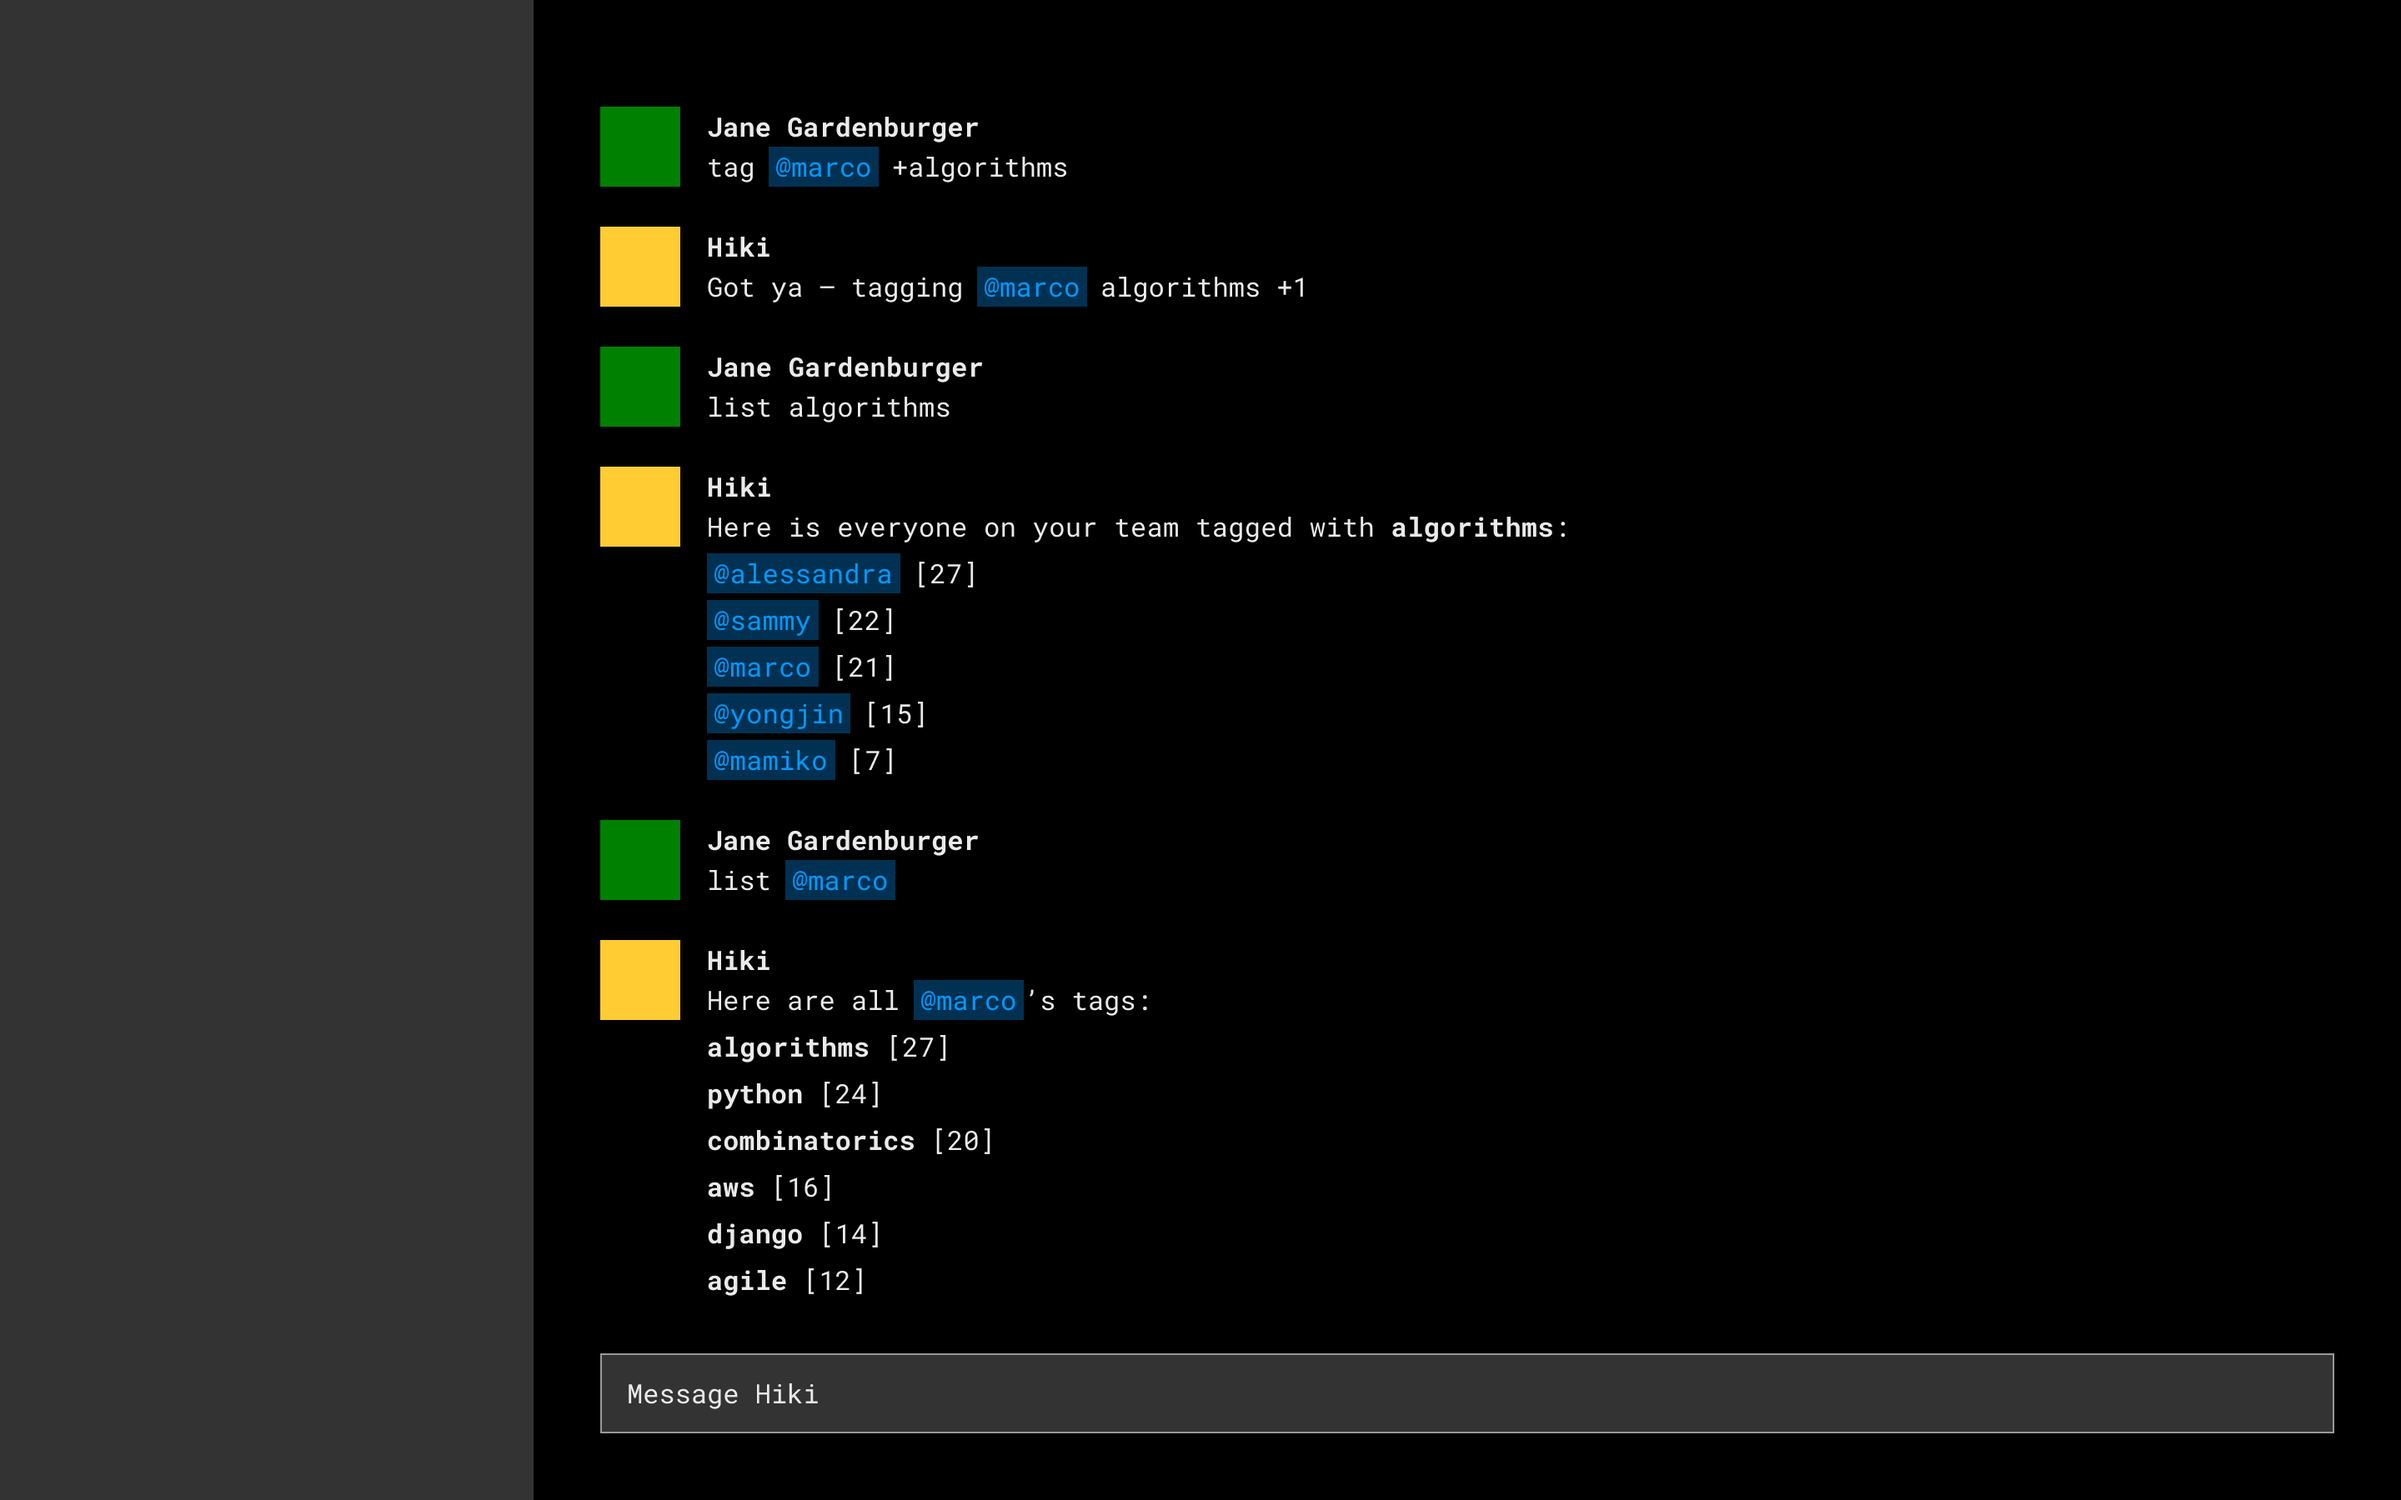
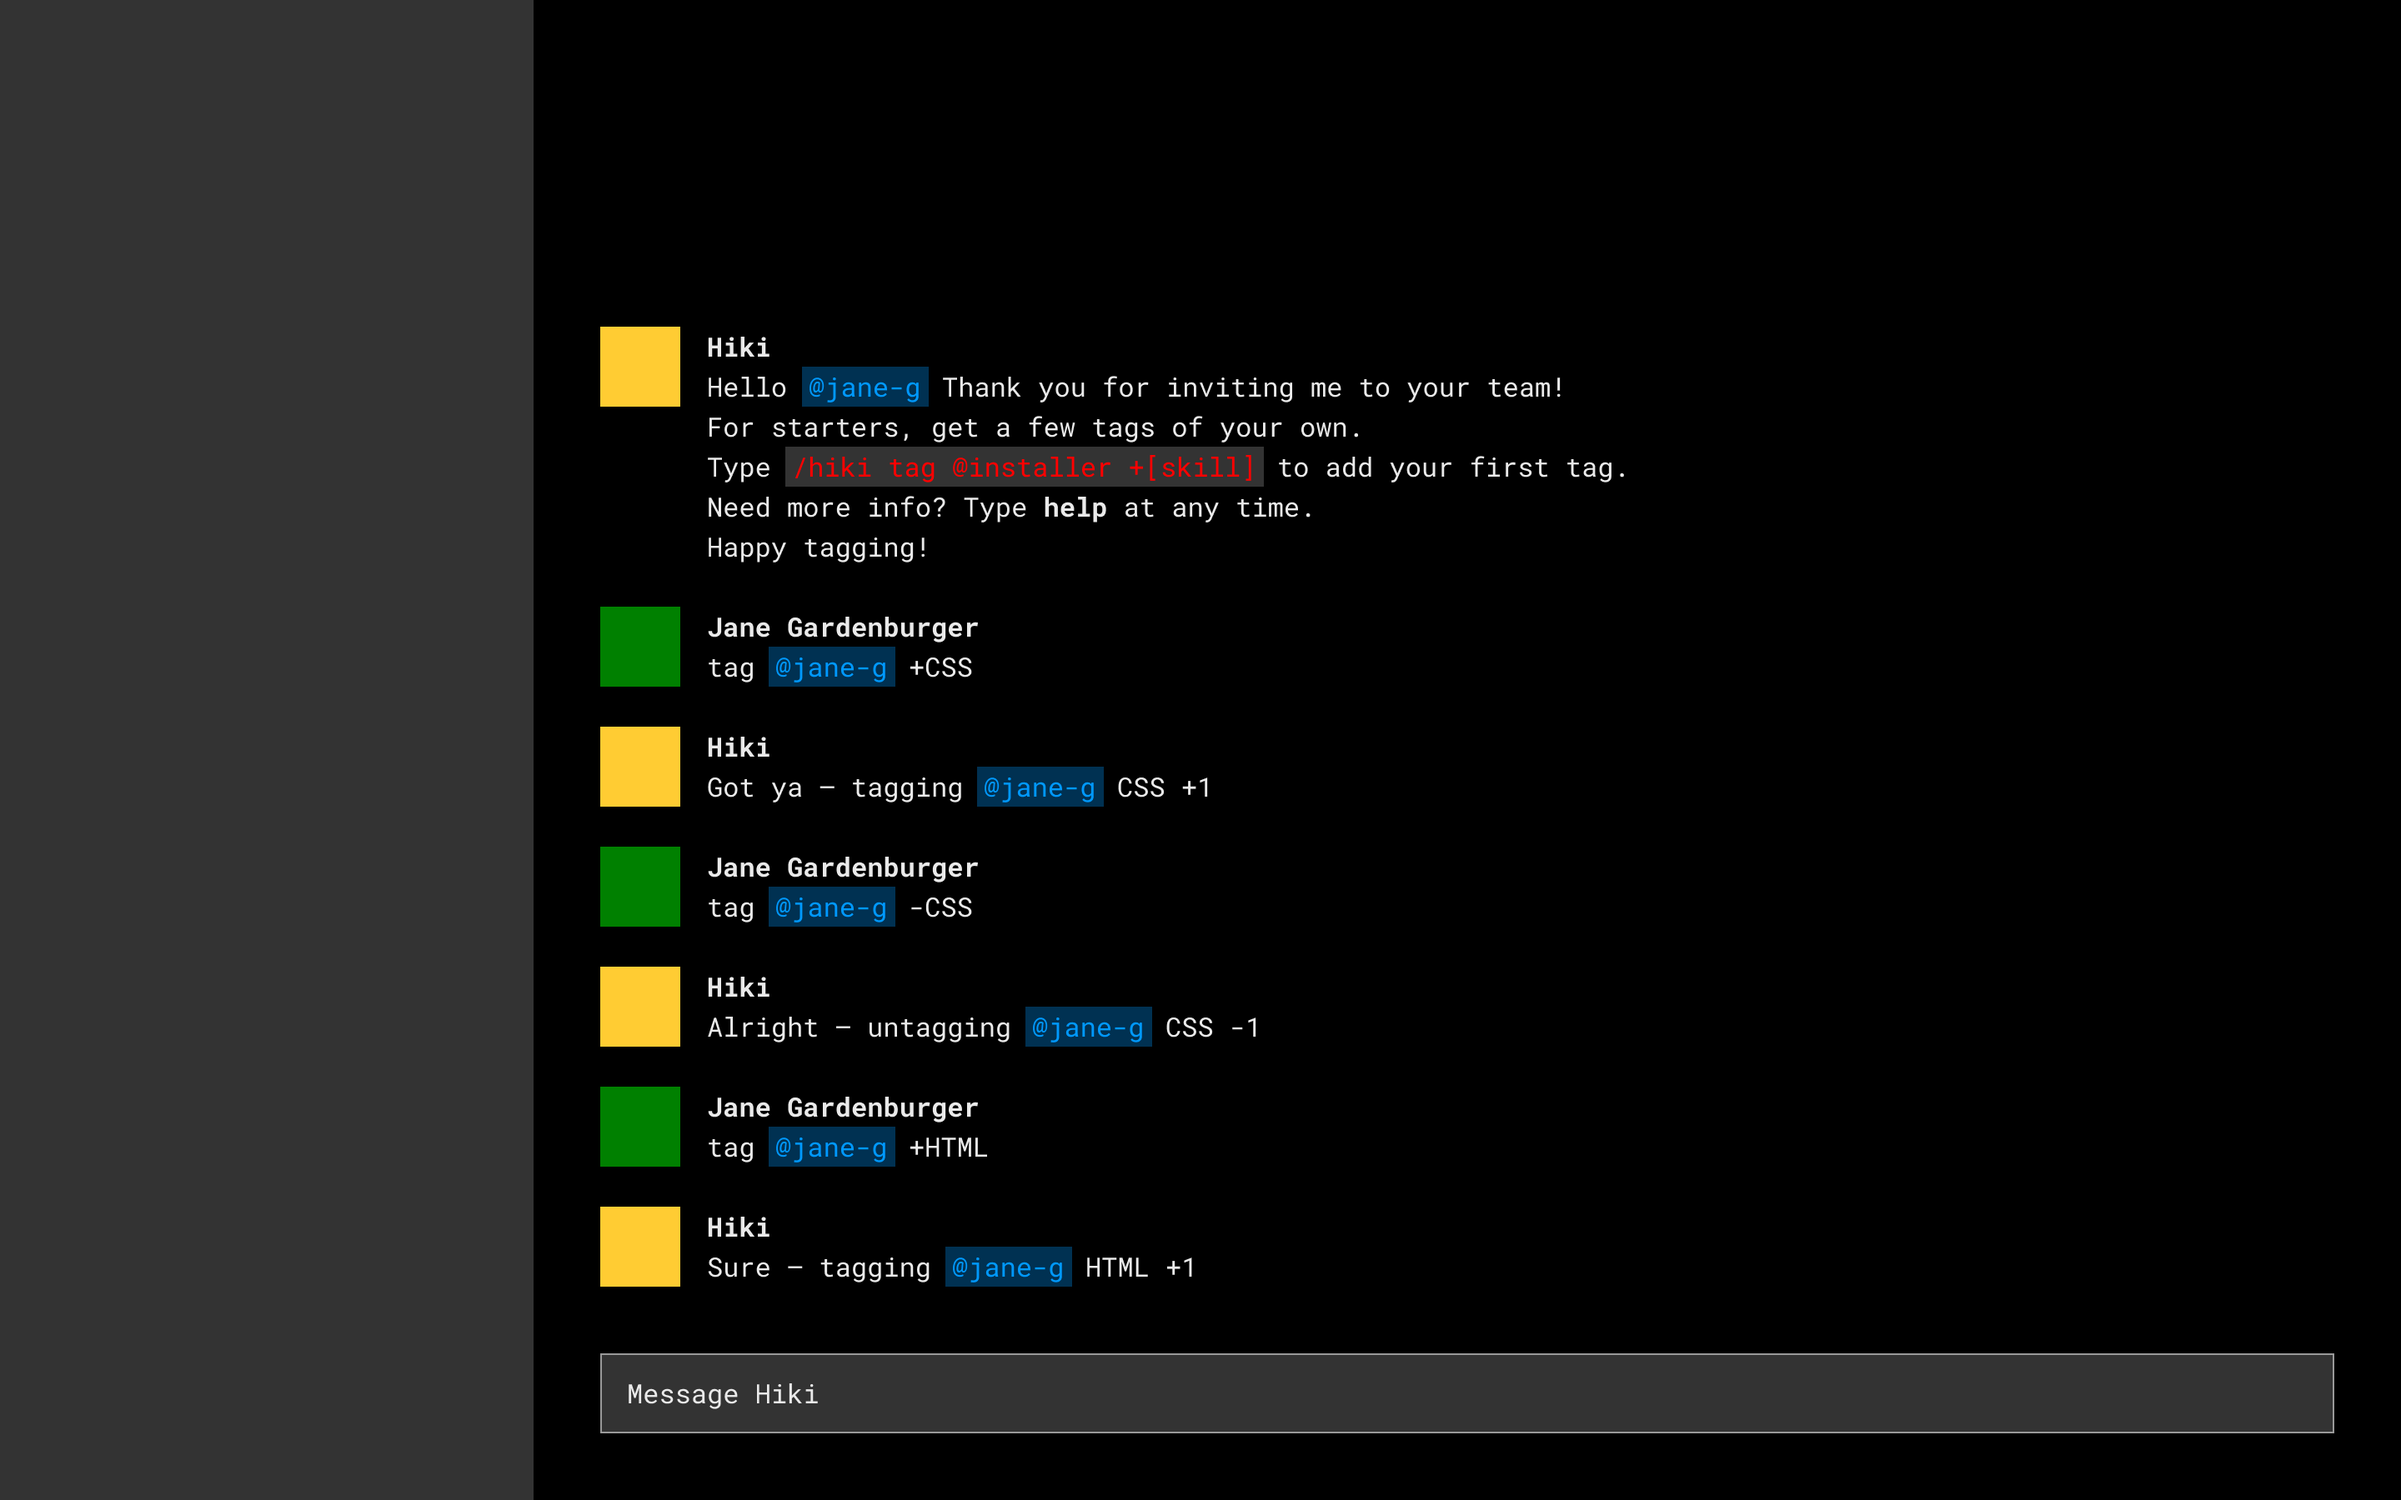
Display additional wireframe.

Changed region(s): [[0.25, 0.0622, 0.6562, 0.8711], [0.625, 0.2489, 0.6562, 0.28]]

diff --git a/hiki.html b/hiki.html
@@ -95,12 +95,19 @@
             </picture>
             <figcaption class="figure-caption text-center mt-3 text-normal text-monospaced">Screenshot of Hiki’s command-line interface design guide on GitHub.</figcaption>
           </figure>
-          <figure class="figure">
+          <figure class="figure mb-5">
             <picture>
               <source srcset="assets/img/hiki.team/content.dark-hiki-wireframe-01.png" media="(prefers-color-scheme: dark)">
-              <img class="img-fluid rounded-3 content-screenshot-brightness" alt="Wireframe of Hiki’s command-line interface used for collaboration with the engineering team" src="assets/img/hiki.team/content.light-hiki-wireframe-01.png">
+              <img class="img-fluid rounded-3 content-screenshot-brightness" alt="Wireframe of Hiki’s welcome message to installing user with examples of initial tag commands" src="assets/img/hiki.team/content.light-hiki-wireframe-01.png">
             </picture>
-            <figcaption class="figure-caption text-center mt-3 text-normal text-monospaced">Wireframe of Hiki’s command-line interface used for collaboration with the engineering team.</figcaption>
+            <figcaption class="figure-caption text-center mt-3 text-normal text-monospaced">Wireframe of Hiki’s welcome message to installing user with examples of initial <code>tag</code> commands.</figcaption>
+          </figure>
+          <figure class="figure">
+            <picture>
+              <source srcset="assets/img/hiki.team/content.dark-hiki-wireframe-02.png" media="(prefers-color-scheme: dark)">
+              <img class="img-fluid rounded-3 content-screenshot-brightness" alt="Wireframe of Hiki’s tag and list commands" src="assets/img/hiki.team/content.light-hiki-wireframe-02.png">
+            </picture>
+            <figcaption class="figure-caption text-center mt-3 text-normal text-monospaced">Wireframe of Hiki’s <code>tag</code> and <code>list</code> commands.</figcaption>
           </figure>
         </div>
       </div>
